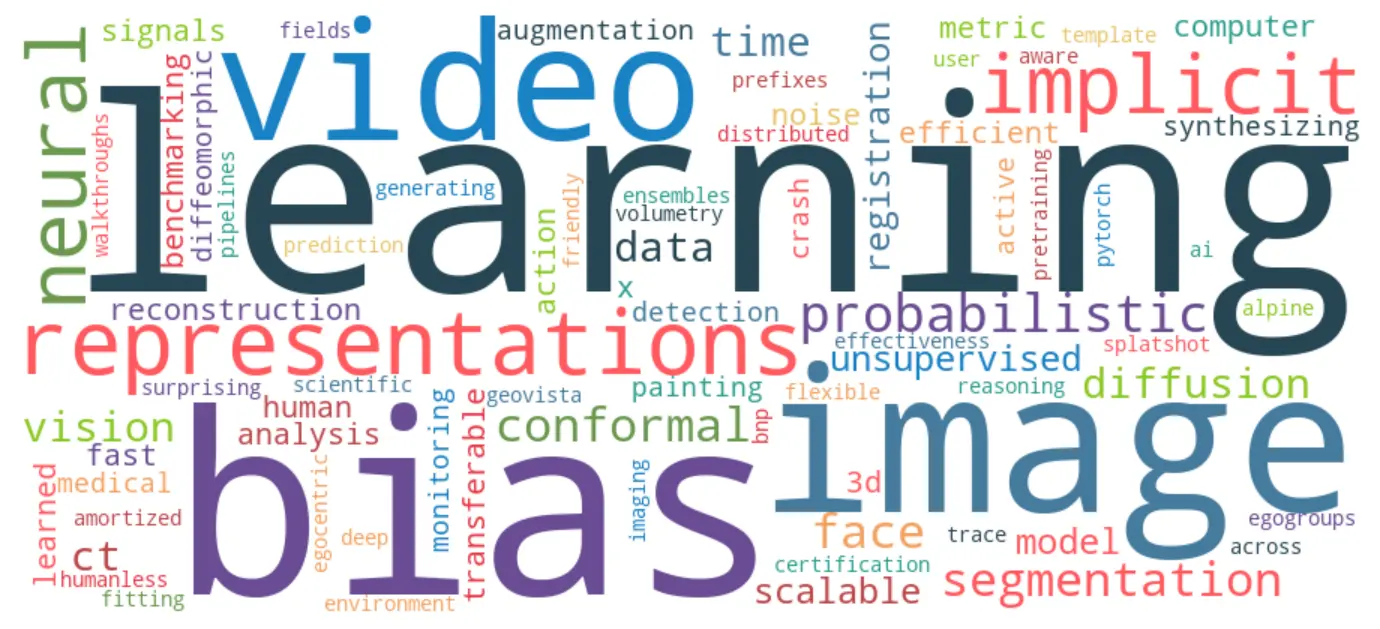
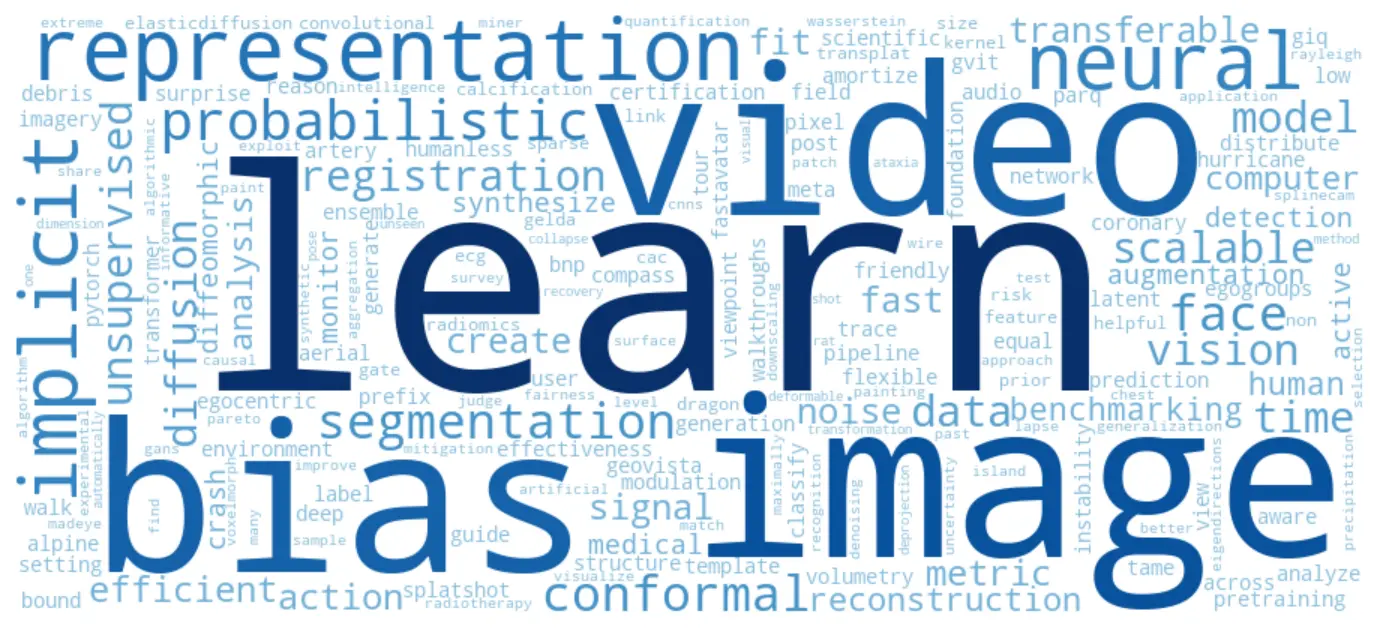
Deploying to gh-pages from @ balakg/balakg.github.io@d4ce4ed20f9ef3e4b3cf6ffc8c5b5edb67900b51 🚀

diff --git a/research/index.html b/research/index.html
@@ -2,7 +2,7 @@
   :root {
     --max-content-width: 930px;
   }
-</style> <link rel="stylesheet" href="/assets/css/tailwind.css?v=50c64c15cbb9fd1ce6056fdb8bcb4b62"> <link defer rel="stylesheet" href="https://cdn.jsdelivr.net/npm/@fortawesome/fontawesome-free@7.2.0/css/all.min.css" integrity="sha256-MVopmdyC2tYTiJ8wlktf0uh0v4NgT+vNdyVFepi7Q0c=" crossorigin="anonymous"> <link defer rel="stylesheet" href="https://cdn.jsdelivr.net/npm/academicons@1.9.5/css/academicons.min.css" integrity="sha256-SzrCOBJbGVFMahewkgjwnApaV2+av1DwMAA+/QGLyZw=" crossorigin="anonymous"> <link defer rel="stylesheet" href="https://cdn.jsdelivr.net/npm/scholar-icons@1.0.3/css/scholar-icons.css" integrity="sha256-VY3hHVj/hNX3fYG6wtbA6TcKJQl7+FthzGSyIB64klY=" crossorigin="anonymous"> <link defer rel="stylesheet" type="text/css" href="https://fonts.googleapis.com/css?family=Roboto:300,400,500,700|Roboto+Slab:100,300,400,500,700|Material+Icons&amp;display=swap"> <link defer rel="stylesheet" href="/assets/css/jekyll-pygments-themes-github.css?v=591dab5a4e56573bf4ef7fd332894c99" media="" id="highlight_theme_light"> <link rel="shortcut icon" href="/assets/img/favicon.ico?v=bde11eddf037f90282eeebafda57eb75"> <link rel="stylesheet" href="/assets/css/main.css?v=f0b101217084a90093badfe99ff9a7d1"> <link rel="canonical" href="https://www.guhabalakrishnan.com/research/"> </head> <body class="fixed-top-nav "> <header> <nav id="navbar" class="navbar navbar-light navbar-expand-sm fixed-top" role="navigation"> <div class="container"> <a class="navbar-brand title font-weight-lighter" href="/"> Guha Balakrishnan </a> <button class="navbar-toggler collapsed navbar-toggler-main" type="button" data-nav-toggle="navbarNav" aria-controls="navbarNav" aria-expanded="false" aria-label="Toggle navigation"> <span class="sr-only">Toggle navigation</span> <span class="icon-bar top-bar"></span> <span class="icon-bar middle-bar"></span> <span class="icon-bar bottom-bar"></span> </button> <div class="collapse navbar-collapse navbar-collapse-main" id="navbarNav"> <ul class="navbar-nav navbar-menu-list flex-nowrap"> <li class="nav-item "> <a class="nav-link" href="/">about </a> </li> <li class="nav-item active"> <a class="nav-link" href="/research/">research <span class="sr-only">(current)</span> </a> </li> <li class="nav-item "> <a class="nav-link" href="/publications/">publications </a> </li> <li class="nav-item "> <a class="nav-link" href="/teaching/">teaching </a> </li> <li class="nav-item "> <a class="nav-link" href="/people/">people </a> </li> <li class="nav-item"> <button id="search-toggle" type="button" title="Search" aria-label="Open search"> <span class="nav-link">ctrl k <i class="fa-solid fa-magnifying-glass"></i></span> </button> </li> </ul> </div> </div> </nav> <progress id="progress" value="0"> <div class="progress-container"> <span class="progress-bar"></span> </div> </progress> </header> <div class="container mt-5" role="main"> <div class="post"> <header class="post-header"> <h1 class="post-title">research</h1> <p class="post-description"></p> </header> <article> <div style="text-align: center; margin: 1.5em 0;"> <img src="/assets/img/wordcloud.png" alt="Research word cloud" style="max-width: 100%; border-radius: 8px;"> <div style="font-size: 0.85em; color: #888; margin-top: 0.5em;">Word cloud of all my publication titles.</div> </div> <hr> <h3 id="-neural-signal-representations"> <i class="fa-solid fa-wave-square" style="color: #4A90D9;"></i> Neural Signal Representations</h3> <p>Scalable and transferable neural signal representations for natural, medical, and scientific imaging domains, with a heavy focus on implicit/coordinate-based networks (INRs).</p> <p><strong>Selected papers:</strong> WIRE (<a href="https://vishwa91.github.io/wire" rel="external nofollow noopener" target="_blank">CVPR 2023</a>), MINER (<a href="https://vishwa91.github.io/miner" rel="external nofollow noopener" target="_blank">ECCV 2022</a>), Transferable INRs (<a href="https://kushalvyas.github.io/strainer.html" rel="external nofollow noopener" target="_blank">NeurIPS 2024</a>), Video INRs (<a href="https://alpoler.github.io/actioner" rel="external nofollow noopener" target="_blank">CVPR 2025</a>), Noise Pretrained INRs (<a href="https://kushalvyas.github.io/noisepretraining.html" rel="external nofollow noopener" target="_blank">CVPR 2026</a>), Fit Pixels, Get Labels (<a href="https://kushalvyas.github.io/metaseg.html" rel="external nofollow noopener" target="_blank">MICCAI 2025</a>), ISLAND (<a href="https://github.com/way-yuhao/island" rel="external nofollow noopener" target="_blank">Remote Sensing Applications 2024</a>), GeoViSTA (<a href="https://arxiv.org/abs/2605.14406" rel="external nofollow noopener" target="_blank">2026</a>)</p> <hr> <h3 id="-trustworthy-ai"> <i class="fa-solid fa-scale-balanced" style="color: #4EAA7A;"></i> Trustworthy AI</h3> <p>Probing AI systems for bias, robustness, and reliability through causal benchmarking, conformal uncertainty quantification, and network geometry analysis.</p> <p><strong>Selected papers:</strong> SplineCam (<a href="https://imtiazhumayun.github.io/splinecam/" rel="external nofollow noopener" target="_blank">CVPR 2023</a>), Causal Benchmarking of Face Analysis (<a href="https://arxiv.org/abs/2007.06570" rel="external nofollow noopener" target="_blank">ECCV 2020</a>, <a href="https://hliang2.github.io/BenchmarkingReco/" rel="external nofollow noopener" target="_blank">ICCV 2023</a>), GELDA (<a href="https://krishk97.github.io/publication/gelda" rel="external nofollow noopener" target="_blank">CVPR 2024</a>), Precipitation Downscaling (<a href="https://doi.org/10.1109/TGRS.2025.3611872" rel="external nofollow noopener" target="_blank">TGRS 2025</a>), Conformal UQ (<a href="https://openreview.net/forum?id=uBy4TCgGiT" rel="external nofollow noopener" target="_blank">ICLR 2026</a>, <a href="https://arxiv.org/abs/2404.15274" rel="external nofollow noopener" target="_blank">MICCAIW 2025</a>), Not All Views Equal (<a href="https://openaccess.thecvf.com/content/ICCV2025/html/Michalkiewicz_Not_all_Views_are_Created_Equal_Analyzing_Viewpoint_Instabilities_in_ICCV_2025_paper.html" rel="external nofollow noopener" target="_blank">ICCV 2025</a>), GIQ (<a href="https://toomanymatts.github.io/giq-benchmark/" rel="external nofollow noopener" target="_blank">ICLR 2026</a>)</p> <hr> <h3 id="-scene-reconstruction"> <i class="fa-solid fa-cube" style="color: #9B6EC8;"></i> Scene Reconstruction</h3> <p>3D reconstruction and novel-view synthesis of scenes, objects, and volumes from images and video, including human avatars, urban environments, and sparse-view medical imaging.</p> <p><strong>Selected papers:</strong> CT Reconstruction (<a href="https://arxiv.org/abs/2308.02100" rel="external nofollow noopener" target="_blank">MICCAI 2023</a>), Drone-and-Ground Splatting (<a href="https://yujinh22.github.io/publications/dragon/" rel="external nofollow noopener" target="_blank">ICCP 2024</a>), TranSplat (<a href="https://tonyyu0822.github.io/transplat/" rel="external nofollow noopener" target="_blank">2025</a>), Face Avatars (<a href="https://arxiv.org/abs/2606.01493" rel="external nofollow noopener" target="_blank">2026</a>, <a href="https://hliang2.github.io/FastAvatar/" rel="external nofollow noopener" target="_blank">2025</a>), Humanless Walkthroughs (<a href="https://crowd-eraser.github.io" rel="external nofollow noopener" target="_blank">CVPR 2026</a>)</p> </article> </div> </div> <footer class="fixed-bottom" role="contentinfo"> <div class="container mt-0"> © Copyright 2026 Guha Balakrishnan. Powered by <a href="https://jekyllrb.com/" target="_blank" rel="external nofollow noopener">Jekyll</a> with <a href="https://github.com/alshedivat/al-folio" rel="external nofollow noopener" target="_blank">al-folio</a> theme. Hosted by <a href="https://pages.github.com/" target="_blank" rel="external nofollow noopener">GitHub Pages</a>. </div> </footer> <script>
+</style> <link rel="stylesheet" href="/assets/css/tailwind.css?v=50c64c15cbb9fd1ce6056fdb8bcb4b62"> <link defer rel="stylesheet" href="https://cdn.jsdelivr.net/npm/@fortawesome/fontawesome-free@7.2.0/css/all.min.css" integrity="sha256-MVopmdyC2tYTiJ8wlktf0uh0v4NgT+vNdyVFepi7Q0c=" crossorigin="anonymous"> <link defer rel="stylesheet" href="https://cdn.jsdelivr.net/npm/academicons@1.9.5/css/academicons.min.css" integrity="sha256-SzrCOBJbGVFMahewkgjwnApaV2+av1DwMAA+/QGLyZw=" crossorigin="anonymous"> <link defer rel="stylesheet" href="https://cdn.jsdelivr.net/npm/scholar-icons@1.0.3/css/scholar-icons.css" integrity="sha256-VY3hHVj/hNX3fYG6wtbA6TcKJQl7+FthzGSyIB64klY=" crossorigin="anonymous"> <link defer rel="stylesheet" type="text/css" href="https://fonts.googleapis.com/css?family=Roboto:300,400,500,700|Roboto+Slab:100,300,400,500,700|Material+Icons&amp;display=swap"> <link defer rel="stylesheet" href="/assets/css/jekyll-pygments-themes-github.css?v=591dab5a4e56573bf4ef7fd332894c99" media="" id="highlight_theme_light"> <link rel="shortcut icon" href="/assets/img/favicon.ico?v=bde11eddf037f90282eeebafda57eb75"> <link rel="stylesheet" href="/assets/css/main.css?v=f0b101217084a90093badfe99ff9a7d1"> <link rel="canonical" href="https://www.guhabalakrishnan.com/research/"> </head> <body class="fixed-top-nav "> <header> <nav id="navbar" class="navbar navbar-light navbar-expand-sm fixed-top" role="navigation"> <div class="container"> <a class="navbar-brand title font-weight-lighter" href="/"> Guha Balakrishnan </a> <button class="navbar-toggler collapsed navbar-toggler-main" type="button" data-nav-toggle="navbarNav" aria-controls="navbarNav" aria-expanded="false" aria-label="Toggle navigation"> <span class="sr-only">Toggle navigation</span> <span class="icon-bar top-bar"></span> <span class="icon-bar middle-bar"></span> <span class="icon-bar bottom-bar"></span> </button> <div class="collapse navbar-collapse navbar-collapse-main" id="navbarNav"> <ul class="navbar-nav navbar-menu-list flex-nowrap"> <li class="nav-item "> <a class="nav-link" href="/">about </a> </li> <li class="nav-item active"> <a class="nav-link" href="/research/">research <span class="sr-only">(current)</span> </a> </li> <li class="nav-item "> <a class="nav-link" href="/publications/">publications </a> </li> <li class="nav-item "> <a class="nav-link" href="/teaching/">teaching </a> </li> <li class="nav-item "> <a class="nav-link" href="/people/">people </a> </li> <li class="nav-item"> <button id="search-toggle" type="button" title="Search" aria-label="Open search"> <span class="nav-link">ctrl k <i class="fa-solid fa-magnifying-glass"></i></span> </button> </li> </ul> </div> </div> </nav> <progress id="progress" value="0"> <div class="progress-container"> <span class="progress-bar"></span> </div> </progress> </header> <div class="container mt-5" role="main"> <div class="post"> <header class="post-header"> <h1 class="post-title">research</h1> <p class="post-description"></p> </header> <article> <div style="text-align: center; margin: 1.5em 0;"> <img src="/assets/img/wordcloud.png" alt="Research word cloud" style="max-width: 100%; border-radius: 8px;"> <div style="font-size: 0.85em; color: #888; margin-top: 0.5em;">Word cloud using all my publication titles. Larger/darker words appear more frequently.</div> </div> <hr> <h3 id="-neural-signal-representations"> <i class="fa-solid fa-wave-square" style="color: #4A90D9;"></i> Neural Signal Representations</h3> <p>Scalable and transferable neural signal representations for natural, medical, and scientific imaging domains, with a heavy focus on implicit/coordinate-based networks (INRs).</p> <p><strong>Selected papers:</strong> WIRE (<a href="https://vishwa91.github.io/wire" rel="external nofollow noopener" target="_blank">CVPR 2023</a>), MINER (<a href="https://vishwa91.github.io/miner" rel="external nofollow noopener" target="_blank">ECCV 2022</a>), Transferable INRs (<a href="https://kushalvyas.github.io/strainer.html" rel="external nofollow noopener" target="_blank">NeurIPS 2024</a>), Video INRs (<a href="https://alpoler.github.io/actioner" rel="external nofollow noopener" target="_blank">CVPR 2025</a>), Noise Pretrained INRs (<a href="https://kushalvyas.github.io/noisepretraining.html" rel="external nofollow noopener" target="_blank">CVPR 2026</a>), Fit Pixels, Get Labels (<a href="https://kushalvyas.github.io/metaseg.html" rel="external nofollow noopener" target="_blank">MICCAI 2025</a>), ISLAND (<a href="https://github.com/way-yuhao/island" rel="external nofollow noopener" target="_blank">Remote Sensing Applications 2024</a>), GeoViSTA (<a href="https://arxiv.org/abs/2605.14406" rel="external nofollow noopener" target="_blank">2026</a>)</p> <hr> <h3 id="-trustworthy-ai"> <i class="fa-solid fa-scale-balanced" style="color: #4EAA7A;"></i> Trustworthy AI</h3> <p>Probing AI systems for bias, robustness, and reliability through causal benchmarking, conformal uncertainty quantification, and network geometry analysis.</p> <p><strong>Selected papers:</strong> SplineCam (<a href="https://imtiazhumayun.github.io/splinecam/" rel="external nofollow noopener" target="_blank">CVPR 2023</a>), Causal Benchmarking of Face Analysis (<a href="https://arxiv.org/abs/2007.06570" rel="external nofollow noopener" target="_blank">ECCV 2020</a>, <a href="https://hliang2.github.io/BenchmarkingReco/" rel="external nofollow noopener" target="_blank">ICCV 2023</a>), GELDA (<a href="https://krishk97.github.io/publication/gelda" rel="external nofollow noopener" target="_blank">CVPR 2024</a>), Precipitation Downscaling (<a href="https://doi.org/10.1109/TGRS.2025.3611872" rel="external nofollow noopener" target="_blank">TGRS 2025</a>), Conformal UQ (<a href="https://openreview.net/forum?id=uBy4TCgGiT" rel="external nofollow noopener" target="_blank">ICLR 2026</a>, <a href="https://arxiv.org/abs/2404.15274" rel="external nofollow noopener" target="_blank">MICCAIW 2025</a>), Not All Views Equal (<a href="https://openaccess.thecvf.com/content/ICCV2025/html/Michalkiewicz_Not_all_Views_are_Created_Equal_Analyzing_Viewpoint_Instabilities_in_ICCV_2025_paper.html" rel="external nofollow noopener" target="_blank">ICCV 2025</a>), GIQ (<a href="https://toomanymatts.github.io/giq-benchmark/" rel="external nofollow noopener" target="_blank">ICLR 2026</a>)</p> <hr> <h3 id="-scene-reconstruction"> <i class="fa-solid fa-cube" style="color: #9B6EC8;"></i> Scene Reconstruction</h3> <p>3D reconstruction and novel-view synthesis of scenes, objects, and volumes from images and video, including human avatars, urban environments, and sparse-view medical imaging.</p> <p><strong>Selected papers:</strong> CT Reconstruction (<a href="https://arxiv.org/abs/2308.02100" rel="external nofollow noopener" target="_blank">MICCAI 2023</a>), Drone-and-Ground Splatting (<a href="https://yujinh22.github.io/publications/dragon/" rel="external nofollow noopener" target="_blank">ICCP 2024</a>), TranSplat (<a href="https://tonyyu0822.github.io/transplat/" rel="external nofollow noopener" target="_blank">2025</a>), Face Avatars (<a href="https://arxiv.org/abs/2606.01493" rel="external nofollow noopener" target="_blank">2026</a>, <a href="https://hliang2.github.io/FastAvatar/" rel="external nofollow noopener" target="_blank">2025</a>), Humanless Walkthroughs (<a href="https://crowd-eraser.github.io" rel="external nofollow noopener" target="_blank">CVPR 2026</a>)</p> </article> </div> </div> <footer class="fixed-bottom" role="contentinfo"> <div class="container mt-0"> © Copyright 2026 Guha Balakrishnan. Powered by <a href="https://jekyllrb.com/" target="_blank" rel="external nofollow noopener">Jekyll</a> with <a href="https://github.com/alshedivat/al-folio" rel="external nofollow noopener" target="_blank">al-folio</a> theme. Hosted by <a href="https://pages.github.com/" target="_blank" rel="external nofollow noopener">GitHub Pages</a>. </div> </footer> <script>
   window.alFolio = {
     compatBootstrap: false
   };

diff --git a/blog/2024/tabs/index.html b/blog/2024/tabs/index.html
@@ -17,16 +17,16 @@ Content 2
 <span class="cp">{%</span><span class="w"> </span><span class="nt">endtab</span><span class="w"> </span><span class="cp">%}</span>
 
 <span class="cp">{%</span><span class="w"> </span><span class="nt">endtabs</span><span class="w"> </span><span class="cp">%}</span>
-</code></pre></div></div> <p>With this you can generate visualizations like:</p> <ul id="log" class="tab" data-tab="b7351d08-d628-4669-a8ae-3503b260b96e" data-name="log"> <li class="active" id="log-php"> <a href="#">php </a> </li> <li id="log-js"> <a href="#">js </a> </li> <li id="log-ruby"> <a href="#">ruby </a> </li> </ul> <ul class="tab-content" id="b7351d08-d628-4669-a8ae-3503b260b96e" data-name="log"> <li class="active"> <div class="language-php highlighter-rouge"><div class="highlight"><pre class="highlight"><code><span class="nb">var_dump</span><span class="p">(</span><span class="s1">'hello'</span><span class="p">);</span>
+</code></pre></div></div> <p>With this you can generate visualizations like:</p> <ul id="log" class="tab" data-tab="b3bf98d2-f2b3-4421-a65f-a5d1e2e22d9d" data-name="log"> <li class="active" id="log-php"> <a href="#">php </a> </li> <li id="log-js"> <a href="#">js </a> </li> <li id="log-ruby"> <a href="#">ruby </a> </li> </ul> <ul class="tab-content" id="b3bf98d2-f2b3-4421-a65f-a5d1e2e22d9d" data-name="log"> <li class="active"> <div class="language-php highlighter-rouge"><div class="highlight"><pre class="highlight"><code><span class="nb">var_dump</span><span class="p">(</span><span class="s1">'hello'</span><span class="p">);</span>
 </code></pre></div></div> </li> <li> <div class="language-javascript highlighter-rouge"><div class="highlight"><pre class="highlight"><code><span class="nx">console</span><span class="p">.</span><span class="nf">log</span><span class="p">(</span><span class="dl">"</span><span class="s2">hello</span><span class="dl">"</span><span class="p">);</span>
 </code></pre></div></div> </li> <li> <div class="language-javascript highlighter-rouge"><div class="highlight"><pre class="highlight"><code><span class="nx">pputs</span> <span class="dl">'</span><span class="s1">hello</span><span class="dl">'</span>
-</code></pre></div></div> </li> </ul> <h2 id="another-example">Another example</h2> <ul id="data-struct" class="tab" data-tab="2dfe1747-b8eb-4b37-8ebc-f1553dad4e1b" data-name="data-struct"> <li class="active" id="data-struct-yaml"> <a href="#">yaml </a> </li> <li id="data-struct-json"> <a href="#">json </a> </li> </ul> <ul class="tab-content" id="2dfe1747-b8eb-4b37-8ebc-f1553dad4e1b" data-name="data-struct"> <li class="active"> <div class="language-yaml highlighter-rouge"><div class="highlight"><pre class="highlight"><code><span class="na">hello</span><span class="pi">:</span>
+</code></pre></div></div> </li> </ul> <h2 id="another-example">Another example</h2> <ul id="data-struct" class="tab" data-tab="0767f579-12e0-4e6a-a883-f3fd510d2ad6" data-name="data-struct"> <li class="active" id="data-struct-yaml"> <a href="#">yaml </a> </li> <li id="data-struct-json"> <a href="#">json </a> </li> </ul> <ul class="tab-content" id="0767f579-12e0-4e6a-a883-f3fd510d2ad6" data-name="data-struct"> <li class="active"> <div class="language-yaml highlighter-rouge"><div class="highlight"><pre class="highlight"><code><span class="na">hello</span><span class="pi">:</span>
   <span class="pi">-</span> <span class="s2">"</span><span class="s">whatsup"</span>
   <span class="pi">-</span> <span class="s2">"</span><span class="s">hi"</span>
 </code></pre></div></div> </li> <li> <div class="language-json highlighter-rouge"><div class="highlight"><pre class="highlight"><code><span class="p">{</span><span class="w">
   </span><span class="nl">"hello"</span><span class="p">:</span><span class="w"> </span><span class="p">[</span><span class="s2">"whatsup"</span><span class="p">,</span><span class="w"> </span><span class="s2">"hi"</span><span class="p">]</span><span class="w">
 </span><span class="p">}</span><span class="w">
-</span></code></pre></div></div> </li> </ul> <h2 id="tabs-for-something-else">Tabs for something else</h2> <ul id="something-else" class="tab" data-tab="29c36e17-8b76-4470-8d6b-53495156723e" data-name="something-else"> <li class="active" id="something-else-text"> <a href="#">text </a> </li> <li id="something-else-quote"> <a href="#">quote </a> </li> <li id="something-else-list"> <a href="#">list </a> </li> </ul> <ul class="tab-content" id="29c36e17-8b76-4470-8d6b-53495156723e" data-name="something-else"> <li class="active"> <p>Regular text</p> </li> <li> <blockquote> <p>A quote</p> </blockquote> </li> <li> <p>Hipster list</p> <ul> <li>brunch</li> <li>fixie</li> <li>raybans</li> <li>messenger bag</li> </ul> </li> </ul> </div> </article> <br> <hr> <br> <h2 class="text-3xl font-semibold mb-4 mt-12">Enjoy Reading This Article?</h2> <p class="mb-2">Here are some more articles you might like to read next:</p> <ul class="list-disc pl-7 my-3 space-y-2 marker:text-[var(--global-theme-color)]"> <li class="leading-relaxed"> <a class="underline decoration-1 hover:text-[var(--global-hover-color)]" href="/blog/2025/plotly/">a post with plotly.js</a> </li> <li class="leading-relaxed"> <a class="underline decoration-1 hover:text-[var(--global-hover-color)]" href="/blog/2024/photo-gallery/">a post with image galleries</a> </li> <li class="leading-relaxed"> <a class="underline decoration-1 hover:text-[var(--global-hover-color)]" href="/blog/2024/typograms/">a post with typograms</a> </li> <li class="leading-relaxed"> <a class="underline decoration-1 hover:text-[var(--global-hover-color)]" href="/blog/2024/post-citation/">a post that can be cited</a> </li> <li class="leading-relaxed"> <a class="underline decoration-1 hover:text-[var(--global-hover-color)]" href="/blog/2024/pseudocode/">a post with pseudo code</a> </li> <li class="leading-relaxed"> <a class="underline decoration-1 hover:text-[var(--global-hover-color)]" href="/blog/2024/code-diff/">a post with code diff</a> </li> <li class="leading-relaxed"> <a class="underline decoration-1 hover:text-[var(--global-hover-color)]" href="/blog/2024/advanced-images/">a post with advanced image components</a> </li> <li class="leading-relaxed"> <a class="underline decoration-1 hover:text-[var(--global-hover-color)]" href="/blog/2024/vega-lite/">a post with vega lite</a> </li> <li class="leading-relaxed"> <a class="underline decoration-1 hover:text-[var(--global-hover-color)]" href="/blog/2024/geojson-map/">a post with geojson</a> </li> <li class="leading-relaxed"> <a class="underline decoration-1 hover:text-[var(--global-hover-color)]" href="/blog/2024/echarts/">a post with echarts</a> </li> </ul> </div> </div> <footer class="fixed-bottom" role="contentinfo"> <div class="container mt-0"> © Copyright 2026 Guha Balakrishnan. Powered by <a href="https://jekyllrb.com/" target="_blank" rel="external nofollow noopener">Jekyll</a> with <a href="https://github.com/alshedivat/al-folio" rel="external nofollow noopener" target="_blank">al-folio</a> theme. Hosted by <a href="https://pages.github.com/" target="_blank" rel="external nofollow noopener">GitHub Pages</a>. </div> </footer> <script>
+</span></code></pre></div></div> </li> </ul> <h2 id="tabs-for-something-else">Tabs for something else</h2> <ul id="something-else" class="tab" data-tab="53c65f28-20b2-477a-9f0d-b9c5d273c5ec" data-name="something-else"> <li class="active" id="something-else-text"> <a href="#">text </a> </li> <li id="something-else-quote"> <a href="#">quote </a> </li> <li id="something-else-list"> <a href="#">list </a> </li> </ul> <ul class="tab-content" id="53c65f28-20b2-477a-9f0d-b9c5d273c5ec" data-name="something-else"> <li class="active"> <p>Regular text</p> </li> <li> <blockquote> <p>A quote</p> </blockquote> </li> <li> <p>Hipster list</p> <ul> <li>brunch</li> <li>fixie</li> <li>raybans</li> <li>messenger bag</li> </ul> </li> </ul> </div> </article> <br> <hr> <br> <h2 class="text-3xl font-semibold mb-4 mt-12">Enjoy Reading This Article?</h2> <p class="mb-2">Here are some more articles you might like to read next:</p> <ul class="list-disc pl-7 my-3 space-y-2 marker:text-[var(--global-theme-color)]"> <li class="leading-relaxed"> <a class="underline decoration-1 hover:text-[var(--global-hover-color)]" href="/blog/2025/plotly/">a post with plotly.js</a> </li> <li class="leading-relaxed"> <a class="underline decoration-1 hover:text-[var(--global-hover-color)]" href="/blog/2024/photo-gallery/">a post with image galleries</a> </li> <li class="leading-relaxed"> <a class="underline decoration-1 hover:text-[var(--global-hover-color)]" href="/blog/2024/typograms/">a post with typograms</a> </li> <li class="leading-relaxed"> <a class="underline decoration-1 hover:text-[var(--global-hover-color)]" href="/blog/2024/post-citation/">a post that can be cited</a> </li> <li class="leading-relaxed"> <a class="underline decoration-1 hover:text-[var(--global-hover-color)]" href="/blog/2024/pseudocode/">a post with pseudo code</a> </li> <li class="leading-relaxed"> <a class="underline decoration-1 hover:text-[var(--global-hover-color)]" href="/blog/2024/code-diff/">a post with code diff</a> </li> <li class="leading-relaxed"> <a class="underline decoration-1 hover:text-[var(--global-hover-color)]" href="/blog/2024/advanced-images/">a post with advanced image components</a> </li> <li class="leading-relaxed"> <a class="underline decoration-1 hover:text-[var(--global-hover-color)]" href="/blog/2024/vega-lite/">a post with vega lite</a> </li> <li class="leading-relaxed"> <a class="underline decoration-1 hover:text-[var(--global-hover-color)]" href="/blog/2024/geojson-map/">a post with geojson</a> </li> <li class="leading-relaxed"> <a class="underline decoration-1 hover:text-[var(--global-hover-color)]" href="/blog/2024/echarts/">a post with echarts</a> </li> </ul> </div> </div> <footer class="fixed-bottom" role="contentinfo"> <div class="container mt-0"> © Copyright 2026 Guha Balakrishnan. Powered by <a href="https://jekyllrb.com/" target="_blank" rel="external nofollow noopener">Jekyll</a> with <a href="https://github.com/alshedivat/al-folio" rel="external nofollow noopener" target="_blank">al-folio</a> theme. Hosted by <a href="https://pages.github.com/" target="_blank" rel="external nofollow noopener">GitHub Pages</a>. </div> </footer> <script>
   window.alFolio = {
     compatBootstrap: false
   };

diff --git a/assets/jupyter/blog.ipynb.html b/assets/jupyter/blog.ipynb.html
@@ -1,4 +1,4 @@
-<!DOCTYPE html> <html lang="en"> <head><meta charset="utf-8"/> <meta content="width=device-width, initial-scale=1.0" name="viewport"/> <title>jekyll-jupyter-notebook20260612-3529-vsq1rv</title><script src="https://cdnjs.cloudflare.com/ajax/libs/require.js/2.1.10/require.min.js"></script> <style type="text/css">
+<!DOCTYPE html> <html lang="en"> <head><meta charset="utf-8"/> <meta content="width=device-width, initial-scale=1.0" name="viewport"/> <title>jekyll-jupyter-notebook20260612-3513-4it67j</title><script src="https://cdnjs.cloudflare.com/ajax/libs/require.js/2.1.10/require.min.js"></script> <style type="text/css">
     pre { line-height: 125%; }
 td.linenos .normal { color: inherit; background-color: transparent; padding-left: 5px; padding-right: 5px; }
 span.linenos { color: inherit; background-color: transparent; padding-left: 5px; padding-right: 5px; }
